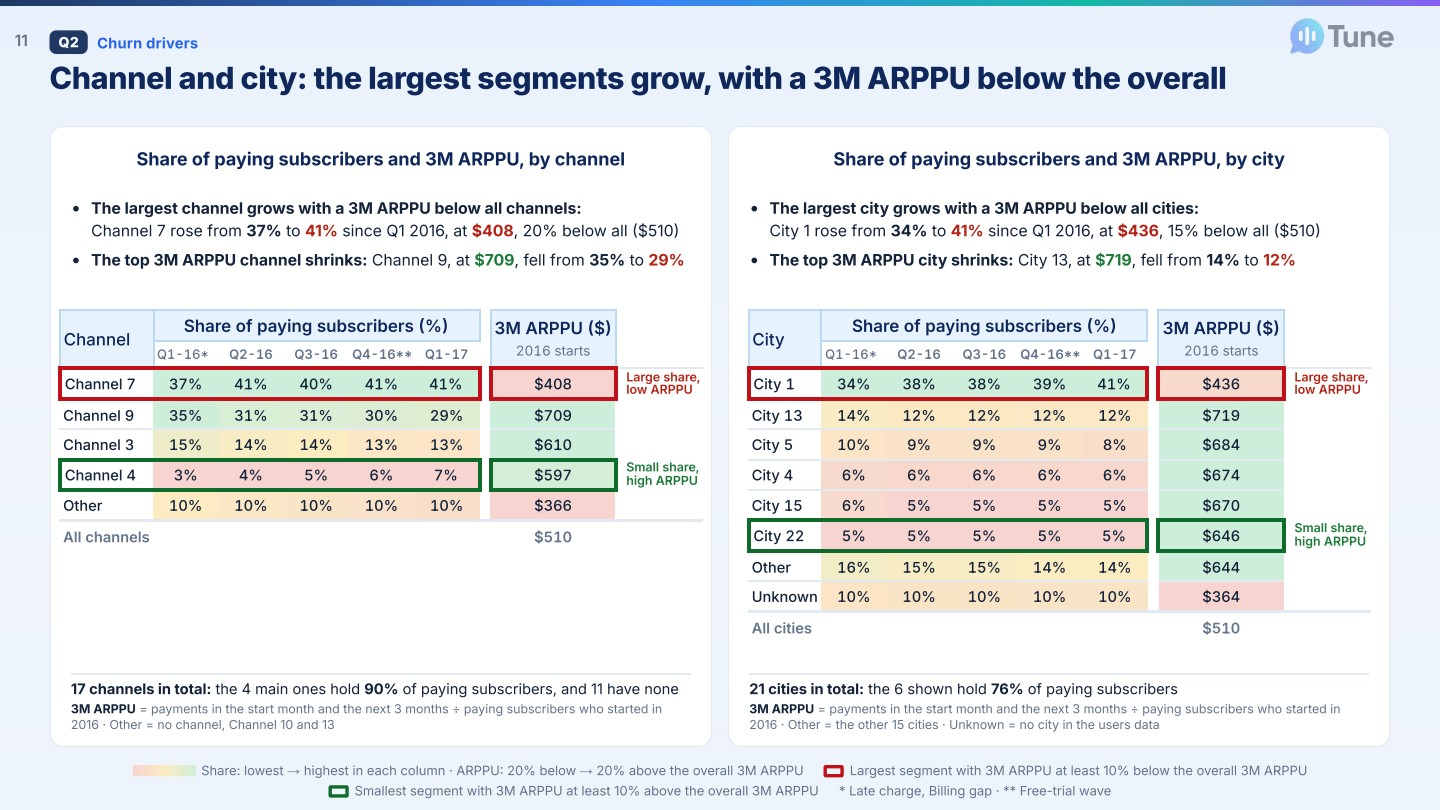
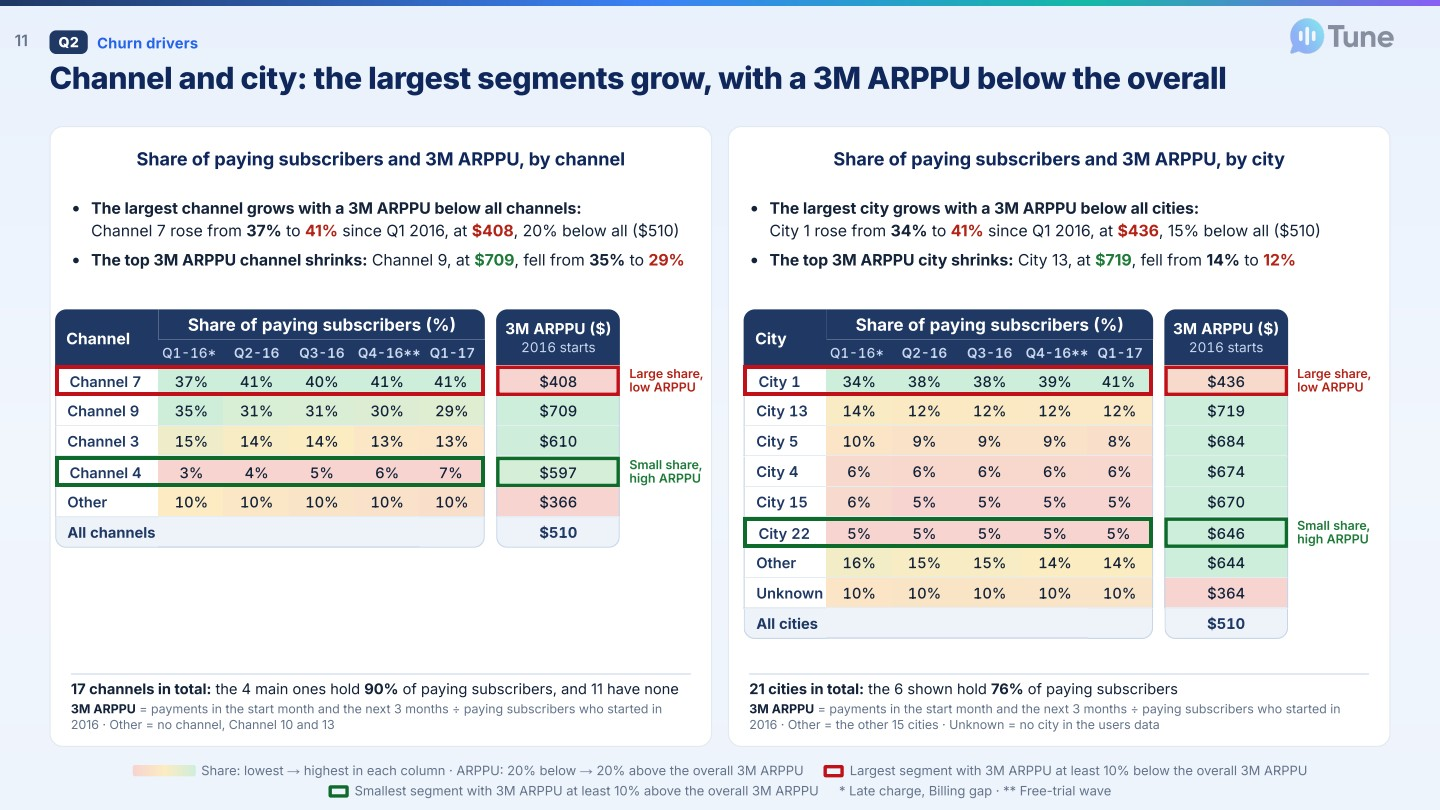
Deck slide 11: channel and city tables in the same dark-blue header design as slide 3

Changed region(s): [[0.0312, 0.3704, 0.9688, 0.8025]]

diff --git a/index.html b/index.html
@@ -3698,7 +3698,7 @@ const ISSUES = { raw_users: "U1-U11: age 0 or out of range, gender missing, regi
   raw_churn_labels: "L4-L7: labels don't match a naive 'due in March' population" };
 
 // ---------------- tabs ----------------
-const DECKV = "1118w3";  // change on every deck update so browsers load the new slide images, not a cached copy
+const DECKV = "1118x11";  // change on every deck update so browsers load the new slide images, not a cached copy
 const GROUPS = {
   intro: [["overview", "Overview"]],
   p1: [["dq", "1a · Data quality"], ["lineage", "1b.1 · Clean layer & data model"], ["explorer", "1b.2 · Explorer & SQL"], ["churn", "1c · Churn check"]],
